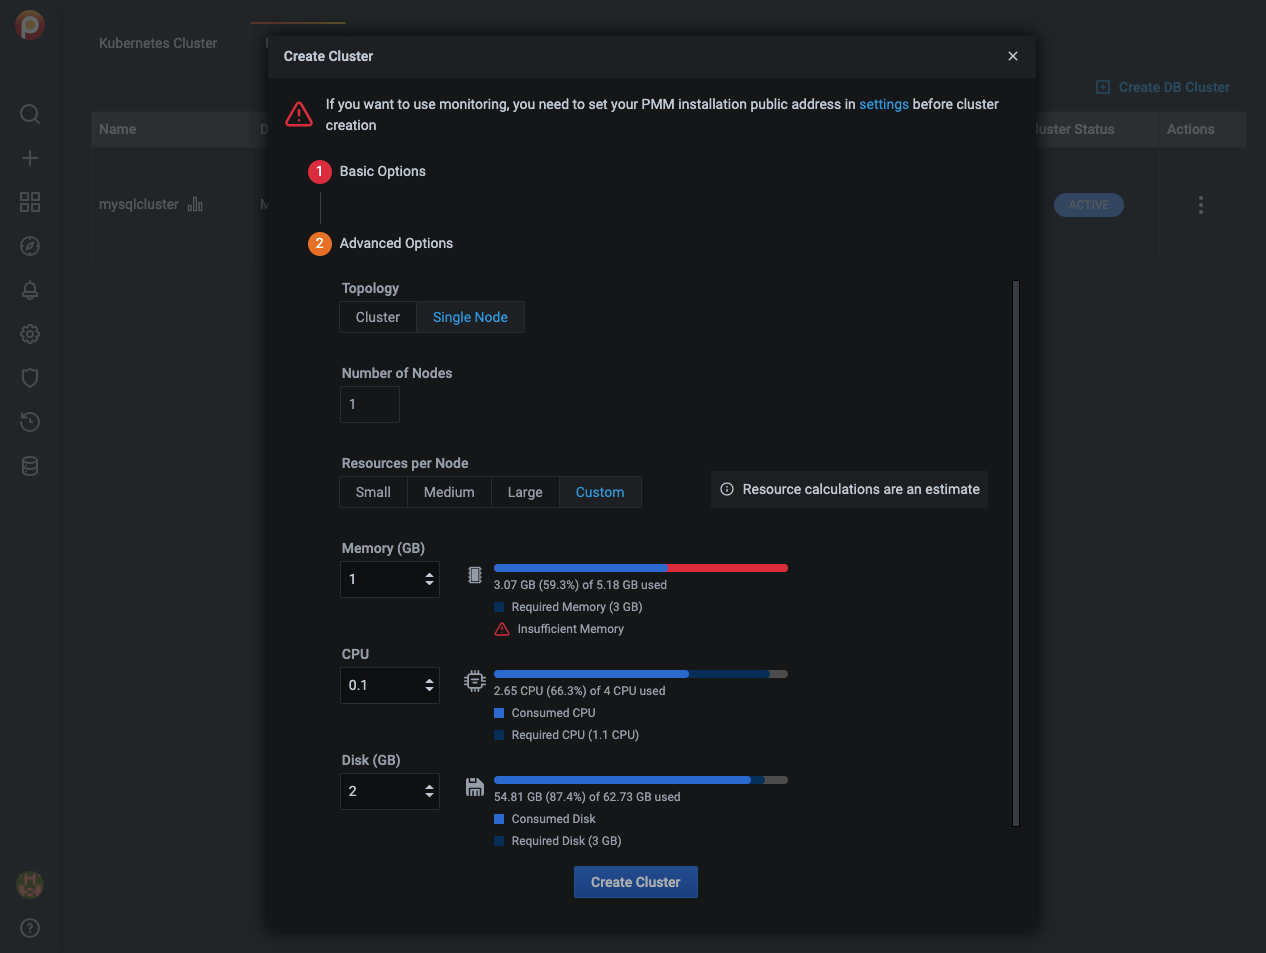
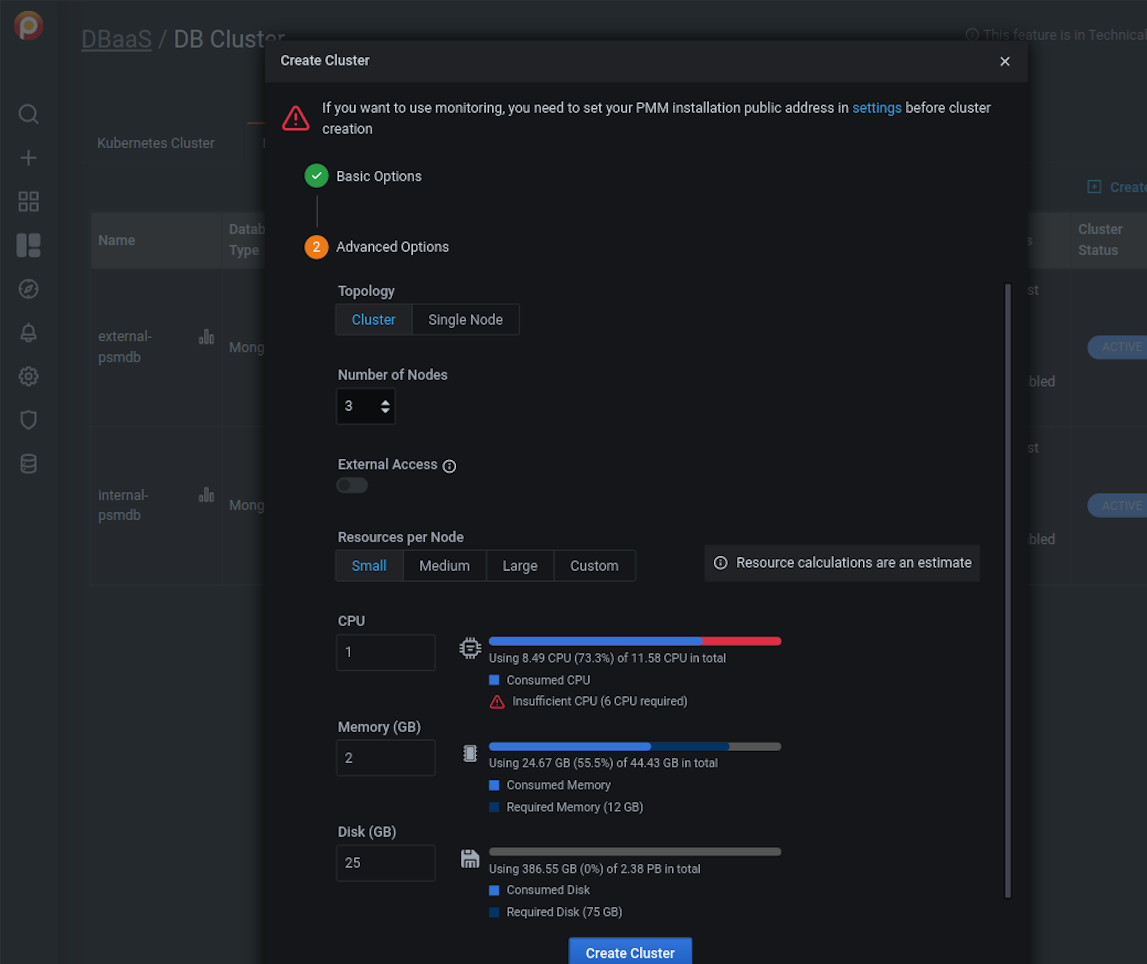
PMM-7659 External access to DB cluster. (#520)
* PMM-7659 External access to DB cluster.

* Update dbaas.md

diff --git a/docs/using/platform/dbaas.md b/docs/using/platform/dbaas.md
@@ -105,7 +105,11 @@ To monitor a DB cluster, set up a [public address](../../how-to/configure.md#pub
 
     2. Select the number of nodes. (The lower limit is 3.)
 
-    3. Select a preset for *Resources per Node*.
+    3. Select *External Access* if you want to make your DB cluster available outside of Kubernetes cluster.
+        
+        By default, only internal access is provided. 
+
+    4. Select a preset for *Resources per Node*.
 
         *Small*, *Medium* and *Large* are fixed preset values for *Memory*, *CPU*, and *Disk*.
 
